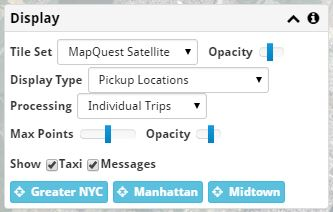
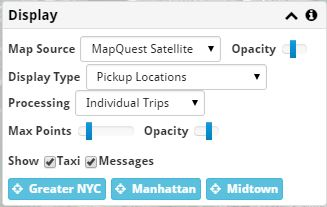
A few small changes.
Animations for the "none" cycle should be on the subrange selected by the graph.

Tweaked some controls based on user feedback.

diff --git a/client/js/map.js b/client/js/map.js
@@ -64,6 +64,7 @@ geoapp.Map = function (arg) {
 
         m_cycleDateRange,
         m_cycleDateRangeData = {},
+        m_cycleDateRange_subRange,
         m_animationOptions = {},
         m_animationData,
         m_animTimer,
@@ -472,6 +473,16 @@ geoapp.Map = function (arg) {
             var curRange = this.getCycleDateRange(start, true);
             start = curRange.start;
             end = curRange.end;
+            /* Intersect this with the graph cycle range */
+            if (m_cycleDateRange_subRange && m_cycleDateRange_subRange[0] &&
+                    m_cycleDateRange_subRange[0] > start) {
+                start = moment.utc(m_cycleDateRange_subRange[0]);
+            }
+            if (m_cycleDateRange_subRange && m_cycleDateRange_subRange[1] &&
+                    m_cycleDateRange_subRange[1] < end) {
+                end = moment.utc(m_cycleDateRange_subRange[1]);
+            }
+            /* The range is based on the totla duration */
             range = moment.duration(moment.utc(end) - moment.utc(start));
         }
         steps = parseInt(options['cycle-steps'] || 1);
@@ -945,4 +956,16 @@ geoapp.Map = function (arg) {
         }
         return m_layers[datakey];
     };
+
+    geoapp.events.on('ga:graphZoomRange', function (value) {
+        if (!_.isEqual(value, m_cycleDateRange_subRange)) {
+            m_cycleDateRange_subRange = value;
+            if (m_animationOptions && m_animationOptions.cycle === 'none' &&
+                    m_animationData && m_animationData.playState) {
+                var animStartStep = m_animationData.step;
+                m_animationData = null;
+                m_this.animate(undefined, animStartStep);
+            }
+        }
+    });
 };

diff --git a/client/js/graph.js b/client/js/graph.js
@@ -549,6 +549,7 @@ geoapp.Graph = function (arg) {
         if (i >= m_numGraphs && m_lastZoomRange) {
             m_lastZoomRange = null;
             this.filterFromZoomRange();
+            geoapp.events.trigger('ga:graphZoomRange', m_lastZoomRange);
         }
     };
 
@@ -696,7 +697,10 @@ geoapp.Graph = function (arg) {
                 });
                 if (opts.type === 'line') {
                     if (!m_lastZoomRange) {
-                        m_lastZoomRange = [opts.left, opts.right];
+                        m_lastZoomRange = [
+                            parseFloat(opts.left),
+                            parseFloat(opts.right)
+                        ];
                     } else {
                         opts.left = m_lastZoomRange[0];
                         opts.right = m_lastZoomRange[1];
@@ -716,6 +720,7 @@ geoapp.Graph = function (arg) {
             }
         }
         this.filterFromZoomRange();
+        geoapp.events.trigger('ga:graphZoomRange', m_lastZoomRange);
     };
 
     /* Update a graph with new data if necessary.  Graphs are only updated if
@@ -811,6 +816,7 @@ geoapp.Graph = function (arg) {
             }
             m_lastZoomRange = range;
             this.filterFromZoomRange();
+            geoapp.events.trigger('ga:graphZoomRange', m_lastZoomRange);
         }
         this.updateGraphNavigation(true);
     };

diff --git a/client/js/datahandler.js b/client/js/datahandler.js
@@ -533,7 +533,6 @@ geoapp.dataHandlers.instagram = function (arg) {
                     .utcOffset(0).format('MMM D HH:mm')))
                 .append($('<td/>').text(item[caption_column]))
                 /* Don't add a tooltip, since we pop up the photo elsewhere */
-                //  .attr('title', item[caption_column]))
             );
         }
         geoapp.activityLog.logSystem(

diff --git a/docs/filters.rst b/docs/filters.rst
@@ -26,6 +26,6 @@ The lower **Filter** button loads Instagram and Twitter messages from the databa
 
 The **Max Inst.** slider can be used to load more data, which will take longer and use more local resources.
 
-A **Caption Search** can be used to get only messages related to a particular topic.  This uses a general text search, so a value of 'Hospital' will match both 'Hospital' and 'Hospitality'.  If multiple words are specified, all words are required.  Words can be prefixed with a minus sign to exclude them, and can be quoted to match an exact form.  For instance, 'Hospital -"Hospitality"' will find hospitals but exclude posts about hotel conferences.
+A **Text Search** can be used to get only messages related to a particular topic.  This uses a general text search, so a value of 'Hospital' will match both 'Hospital' and 'Hospitality'.  If multiple words are specified, all words are required.  Words can be prefixed with a minus sign to exclude them, and can be quoted to match an exact form.  For instance, 'Hospital -"Hospitality"' will find hospitals but exclude posts about hotel conferences.
 
 Instagram and Twitter data is plotted on the map using red points.

diff --git a/docs/display.rst b/docs/display.rst
@@ -7,7 +7,7 @@ Displaying Data
 Background Map
 ++++++++++++++
 
-The base map can be changed using the **Tile Set** option in the **Display** panel.  It can be made more or less visible with the **Opacity** slider next to the Tile Set Option.
+The base map can be changed using the **Map Source** option in the **Display** panel.  It can be made more or less visible with the **Opacity** slider next to the Map Source Option.
 
 A specific area of the map can be centered by selecting one of the location buttons (**Manhattan**, **Midtown**, or **Times Sq.**).
 

diff --git a/docs/messages.rst b/docs/messages.rst
@@ -5,7 +5,7 @@ Instagram and Twitter Results
     :align: right
     :width: 350px
 
-Instagram and Twitter messages are loaded by using the :ref:`Filters <filterMessages>` panel.  You can filter messages by date or by a caption search.
+Instagram and Twitter messages are loaded by using the :ref:`Filters <filterMessages>` panel.  You can filter messages by date or by a text search.
 
 A list of the filtered messages are shown in the **Instagram and Twitter Results** panel.
 
